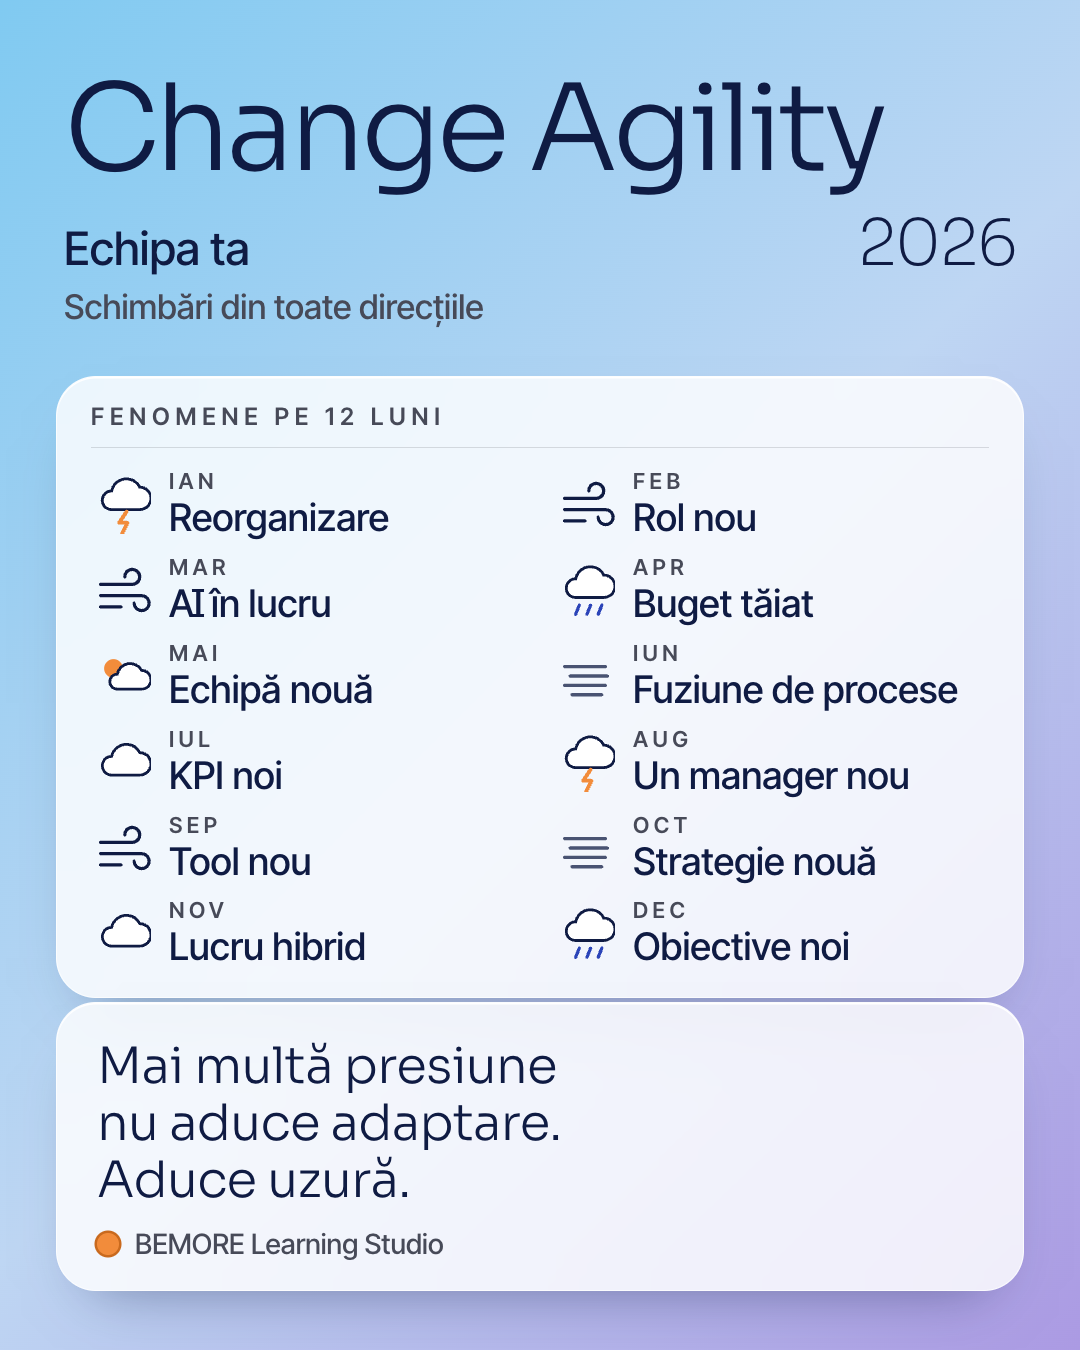
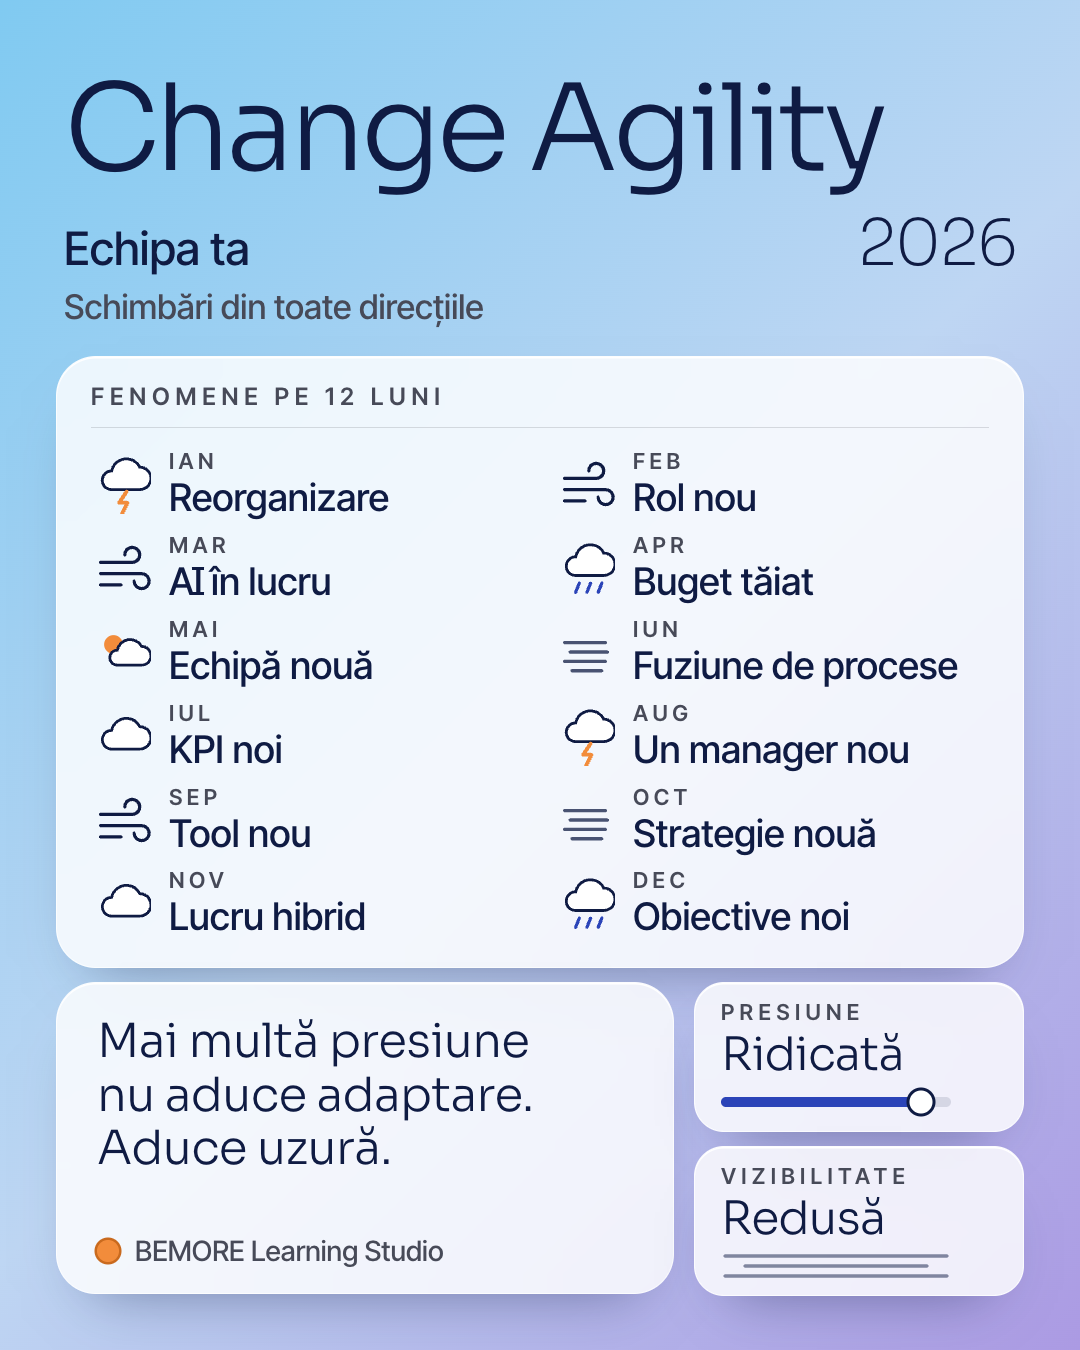
Ioana: D1 cu Presiune ridicată și Vizibilitate redusă, cum a cerut Alex

Changed region(s): [[0.0306, 0.2489, 0.9472, 0.9644]]

diff --git a/team/ioana/documente/postare-change-agility-2026-v2/comparatie.html b/team/ioana/documente/postare-change-agility-2026-v2/comparatie.html
@@ -89,8 +89,8 @@ section.nota li{max-width:80ch}
   </article>
   <article class="var" aria-labelledby="r3d1">
     <div class="cap"><span class="eticheta">D1 · anul</span><h2 id="r3d1">Fenomene pe 12 luni</h2></div>
-    <p class="idee">„Change Agility” e titlul mare al aplicației (ca „Vremea” din lista de orașe), „Echipa ta” e locul. Fiecare lună are un fenomen: o schimbare reală. Jos, fraza lui despre presiune.</p>
-    <div class="tel"><div class="post"><div class="cine"><span class="av"></span><div><b>Alexandru Molea</b><span>acum</span></div></div><p class="txt">Anul acesta, schimbările n-au mai venit pe rând, ci deodată. Asta ne-a îndreptat atenția spre capacitatea noastră de a ne reinventa. <i>…mai mult</i></p><img src="d1-vremea.png" width="1080" height="1350" alt="Aplicație meteo numită Change Agility. Echipa ta, 2026, Schimbări din toate direcțiile. Fenomene pe 12 luni: Ian Reorganizare, Feb Rol nou, Mar AI în lucru, Apr Buget tăiat, Mai Echipă nouă, Iun Fuziune de procese, Iul KPI noi, Aug Un manager nou, Sep Tool nou, Oct Strategie nouă, Nov Lucru hibrid, Dec Obiective noi. Mai multă presiune nu aduce adaptare. Aduce uzură."><div class="bara"><span>Îmi place</span><span>Comentează</span><span>Distribuie</span></div></div></div>
+    <p class="idee">„Change Agility” e titlul mare al aplicației (ca „Vremea” din lista de orașe), „Echipa ta” e locul. Fiecare lună are un fenomen: o schimbare reală. Jos, fraza lui despre presiune, lângă cele două indicatoare care îi plăceau din D: Presiune ridicată, Vizibilitate redusă.</p>
+    <div class="tel"><div class="post"><div class="cine"><span class="av"></span><div><b>Alexandru Molea</b><span>acum</span></div></div><p class="txt">Anul acesta, schimbările n-au mai venit pe rând, ci deodată. Asta ne-a îndreptat atenția spre capacitatea noastră de a ne reinventa. <i>…mai mult</i></p><img src="d1-vremea.png" width="1080" height="1350" alt="Aplicație meteo numită Change Agility. Echipa ta, 2026, Schimbări din toate direcțiile. Fenomene pe 12 luni: Ian Reorganizare, Feb Rol nou, Mar AI în lucru, Apr Buget tăiat, Mai Echipă nouă, Iun Fuziune de procese, Iul KPI noi, Aug Un manager nou, Sep Tool nou, Oct Strategie nouă, Nov Lucru hibrid, Dec Obiective noi. Mai multă presiune nu aduce adaptare. Aduce uzură. Presiune: ridicată. Vizibilitate: redusă."><div class="bara"><span>Îmi place</span><span>Comentează</span><span>Distribuie</span></div></div></div>
     <a href="d1-vremea.png">d1-vremea.png · 1080 × 1350</a>
   </article>
   <article class="var" aria-labelledby="r3d2">

diff --git a/team/ioana/scorecard.md b/team/ioana/scorecard.md
@@ -88,3 +88,4 @@ Utilitate: 1 = inutil, 3 = ok, 5 = exact ce trebuia. Feedback Alex: completat de
 | 2026-11-27 | Imaginea postării LinkedIn Change Agility („cursul anului” fără s-o spunem): 5 idei 1080×1350 în BEMORE (A Ediția 01 · 2026, B Orbita anului, C Marca atelierului, D Obiectul anului, E Noapte cu mesajul cheie) + B pătrat, comparatie.html cu postarea în feed la 375 px, nota despre imagine vs. cardul linkului | gata, randat headless cu verificări automate (fonturi, margine 48 px, text tăiat, blocuri suprapuse), comparația fără scroll orizontal la 390; Lumină/Noapte verificată (E singura pe Noapte, mesaj cheie) | mediu-mare (estimare): un semn propriu pentru „anul” (orbita), fără premiu | aș fi pus de la început fraza de pe imagine diferită de deschiderea postării (prima B repeta textul de deasupra ei) |
 | 2026-11-27 | Imaginea postării LinkedIn Change Agility, runda 2 (după „Nu-mi place niciun mock-up”): 6 direcții în medii diferite, 1080×1350, BEMORE Lumină: A Aleea (fotografia lui), B Peretele (colaj de bilețele scrise de mână), C Dicționarul (folio 2026), D Prognoza (aplicație meteo), E Biletul (bilet de îmbarcare), F Afișul de film; comparatie.html sub începutul v4 al Sofiei; runda 1 mutată în arhiva/ | gata, randat headless cu verificări (fonturi, margini, text tăiat, cuvintele bilețelelor doar unde se văd întregi), contrast calculat (minim 4,7:1), comparația fără scroll orizontal la 390 | mediu-mare (estimare): Alex vede cu adevărat alte teritorii, iar B leagă imaginea de noul început al postării | în runda 1 aș fi pornit direct de la medii diferite, nu de la un motiv nou pe aceeași sticlă |
 | 2026-11-27 | Imaginea postării Change Agility, runda 3 (după alegerea lui Alex): E1 și E2 (biletul cu „Change Agility” mare: ca zbor sus / dominant cu ruta orizontală) și vremea refăcută cu schimbări reale în trei forme (D1 anul pe 12 luni, D2 azi la birou pe ore, D3 alerta cu fronturi pe radar); comparatie.html cu E/E1/E2 și D/D1/D2/D3 în feed | gata, randat headless, verificare automată nouă (cutia literelor, linia de rupere, marginea sticlei), contrast minim 4,9:1 (pe sticlă 7,6:1), diacritice cu virgulă, pagina fără scroll orizontal la 390 | mare (estimare): numele cursului trece de la ~22 px la 41–62 px în feed, iar vremea spune ceva despre echipe | aș fi verificat de la prima randare cum arată „AI” în Inter Tight (se citea „Al”) |
+| 2026-11-27 | D1 · Vremea: readuse indicatoarele Presiune: Ridicată și Vizibilitate: Redusă (cerute de Alex), ca plăcuțe lângă fraza despre presiune; Change Agility și lista neschimbate | gata, verificarea automată trece (a fost extinsă: sticla la margine, sticla prea plină, suprapunere și pe orizontală) | mediu (estimare): D1 primește înapoi ce îi plăcea lui Alex | la refacerea lui D aș fi păstrat de la început elementele lăudate din original |

diff --git a/.claude/agent-memory/ioana/project_postare-change-agility.md b/.claude/agent-memory/ioana/project_postare-change-agility.md
@@ -10,3 +10,5 @@ Adăugat: 2026-11-27 (mutat din MEMORY.md; intrările își păstrează datele)
 - 2026-11-27: Imaginea og a paginii Change Agility (T-057, og-change-agility/gen.mjs: culorile din site/tema.mjs, fonturile din site/node_modules/@fontsource-variable, randare cdp.mjs): A · Planul (recomandat) / B · Resursele, comparatie.html. LECȚIE: og:image e UNA pe pagină și servește toate postările care duc acolo, deci arată cursul, nu o postare. În feed pe telefon imaginea are ~320 px (×0,27): titlu ≥ 120 px, fraza ≥ 46 px în sursa de 1200. Chrome headless ia dark mode-ul sistemului: Emulation.setEmulatedMedia light pentru capturi.
 
 - 2026-11-27: Imaginea postării Change Agility. Runda 1 (arhiva/postare-change-agility-2026/) respinsă toată: „Nu-mi place niciun mock-up”. Runda 2 (postare-change-agility-2026-v2/, gen.mjs, comparatie.html): A Aleea (poza lui) / B Peretele / C Dicționarul (folio 2026) / D Prognoza (app meteo) / E Biletul / F Afișul de film. ALEX a ales E („conceptul de la Cunoscut la Necunoscut, de boarding pass. Scrie cam mic Change Agility.”) și vrea vremea refăcută cu schimbări reale în loc de vreme. C · Dicționarul îl PĂSTREAZĂ pentru altă postare (nu-l schimba). Runda 3 în același folder: E1 (numele ca zbor, sus) / E2 (numele domină, ruta orizontală; recomandat), D1 anul pe 12 luni / D2 azi la birou pe ore / D3 alerta cu fronturi pe radar (recomandat); aștept alegerea. LECȚII runda 3: numele cursului pe imaginea de postare ≥ 120 px în sursă (~42 px în feed la 375); în Inter Tight „AI” se citește „Al” și fontul nu are cv08: desenez serife pe I (helper ai() în gen.mjs); verificarea suprapunerilor în HTML cu cutia literelor (canvas measureText: fontBoundingBoxAscent + actualBoundingBox), nu cu Range (dă suprapuneri false la line-height strâns). LECȚII runda 2: (1) când propun variante, schimb MEDIUL și conceptul, nu motivul de pe aceeași sticlă tipografică (runda 1 era o singură familie); (2) fraza de pe imagine nu repetă începutul postării; (3) în cdp.mjs pagina se deschide la 1280×800: JS de layout (elementFromPoint) rulează DUPĂ setDeviceMetricsOverride; (4) un drum desenat ca offset al unei Bézier cu lățime mare face cusp-uri: curba centrului blândă; (5) fără QR fals pe imagini (oamenii scanează): cod de bare decorativ.
+
+- 2026-11-27: ALEX pe D1: „lipsesc lucrurile care îmi plăceau: Presiune ridicată, Vizibilitate Redusă.” Când refac o variantă, păstrez elementele pe care le-a lăudat în original (aici indicatoarele), chiar dacă schimb conceptul. Readuse în D1 ca plăcuțe lângă fraza despre presiune. Verificarea din gen.mjs prinde acum și sticla la marginea de 40 px și sticla prea plină; D3 are cardul de jos la ~30 px de margine (de mutat 10 px dacă e aleasă).
